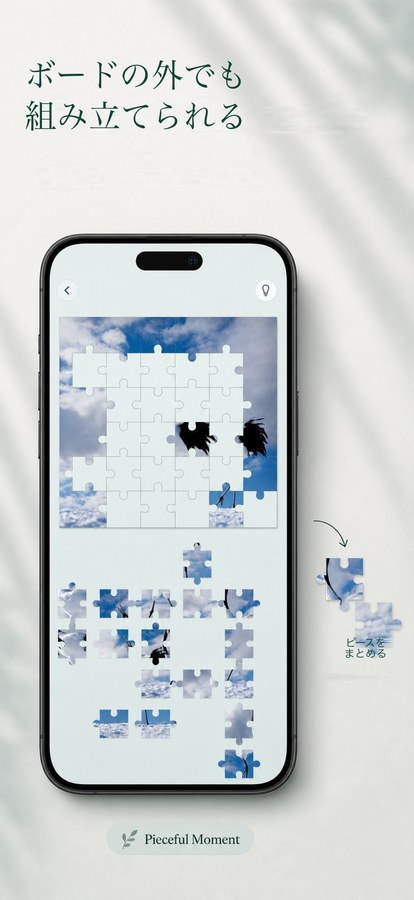
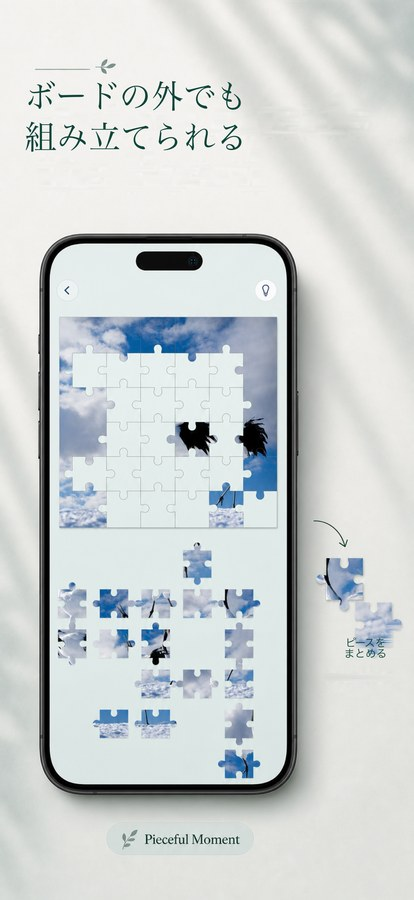
Preserve original treatment artwork in localizations

Changed region(s): [[0.2319, 0.0622, 0.5797, 0.1867], [0.058, 0.0622, 0.2029, 0.1867]]

diff --git a/assets/app.js b/assets/app.js
@@ -93,7 +93,9 @@
       b.classList.toggle("on", b.dataset.lang === lang);
     });
     document.querySelectorAll("[data-localized-shot]").forEach(function (img) {
-      img.src = "assets/img/shots/v8/" + lang + "/" + img.dataset.localizedShot + ".jpg?v=5";
+      var shotNumber = Number(img.dataset.localizedShot);
+      var version = lang !== "en" && shotNumber <= 3 ? 6 : 5;
+      img.src = "assets/img/shots/v8/" + lang + "/" + img.dataset.localizedShot + ".jpg?v=" + version;
     });
     document.querySelectorAll("[data-localized-ipad-shot]").forEach(function (img) {
       img.src = "assets/img/shots/v113-ipad/" + lang + "/" + img.dataset.localizedIpadShot + ".jpg?v=1";

diff --git a/index.html b/index.html
@@ -211,6 +211,6 @@
   </div>
 </footer>
 
-<script src="assets/app.js?v=12"></script>
+<script src="assets/app.js?v=13"></script>
 </body>
 </html>

diff --git a/scripts/test_render_v113_store_assets.py b/scripts/test_render_v113_store_assets.py
@@ -60,10 +60,21 @@ class V113StoreAssetTests(unittest.TestCase):
         )
 
     def test_all_localized_brand_marks_match_their_english_sources(self):
-        box = getattr(self.renderer, "BRAND_MARK_BOX", None)
-        self.assertIsNotNone(box, "renderer must define the locked brand-mark crop")
-        if box is None:
-            return
+        boxes = {
+            1: (35, 85, 390, 205),
+            2: (35, 150, 400, 250),
+            3: (35, 85, 390, 205),
+        }
+        self.assertEqual(
+            getattr(self.renderer, "BRAND_MARK_BOXES", None),
+            boxes,
+            "renderer must lock each source's complete line-and-leaf brand mark",
+        )
+        self.assertEqual(
+            getattr(self.renderer, "TREATMENT_TITLE_Y", None),
+            {1: 210, 2: 255, 3: 210},
+            "localized titles must begin below each locked brand mark",
+        )
         for locale in ("zh", "zht", "ja"):
             for index, source in enumerate(self.renderer.LOCKED_IPHONE_SOURCES, start=1):
                 output = (
@@ -72,11 +83,27 @@ class V113StoreAssetTests(unittest.TestCase):
                     / self.renderer.IPHONE_OUTPUT_FILES[index - 1]
                 )
                 with Image.open(source) as expected_image, Image.open(output) as actual_image:
-                    expected = expected_image.convert("RGB").crop(box)
-                    actual = actual_image.convert("RGB").crop(box)
+                    expected = expected_image.convert("RGB").crop(boxes[index])
+                    actual = actual_image.convert("RGB").crop(boxes[index])
                 self.assertEqual(actual.tobytes(), expected.tobytes(), (locale, index))
                 actual.close()
                 expected.close()
+
+    def test_localized_page_three_preserves_original_place_as_one_badge(self):
+        box = (60, 660, 650, 940)
+        source = self.renderer.LOCKED_IPHONE_SOURCES[2]
+        for locale in ("zh", "zht", "ja"):
+            output = (
+                self.output_root
+                / self.renderer.iphone_output_dir(locale)
+                / self.renderer.IPHONE_OUTPUT_FILES[2]
+            )
+            with Image.open(source) as expected_image, Image.open(output) as actual_image:
+                expected = expected_image.convert("RGB").crop(box)
+                actual = actual_image.convert("RGB").crop(box)
+            self.assertEqual(actual.tobytes(), expected.tobytes(), locale)
+            actual.close()
+            expected.close()
 
     def test_all_outputs_have_app_store_dimensions(self):
         iphone_dir = self.output_root / self.renderer.IPHONE_RELATIVE_OUTPUT

diff --git a/scripts/render_v113_store_assets.py b/scripts/render_v113_store_assets.py
@@ -44,7 +44,13 @@ APP_STORE_CONNECT_LOCALE_DIRS = {
     "zht": "zh-Hant",
     "ja": "ja",
 }
-BRAND_MARK_BOX = (40, 90, 300, 180)
+BRAND_MARK_BOXES = {
+    1: (35, 85, 390, 205),
+    2: (35, 150, 400, 250),
+    3: (35, 85, 390, 205),
+}
+TREATMENT_TITLE_Y = {1: 210, 2: 255, 3: 210}
+PAGE_THREE_BADGE_BOX = (60, 660, 650, 940)
 
 LOCKED_DIR = SOURCE_ROOT / "marketing-assets/app-store-candidates/pieceful-independent-6.9"
 LOCKED_IPHONE_SOURCES = [
@@ -409,7 +415,9 @@ def render_localized_treatment_poster(source_path, output, locale, index):
         return output
     with Image.open(source_path) as opened:
         source = opened.convert("RGB")
-    brand_mark = source.crop(BRAND_MARK_BOX)
+    brand_mark_box = BRAND_MARK_BOXES[index]
+    brand_mark = source.crop(brand_mark_box)
+    page_three_badge = source.crop(PAGE_THREE_BADGE_BOX) if index == 3 else None
     canvas = erase_flattened_green_copy(source, TREATMENT_ERASE_BOXES[index])
     source.close()
     draw = ImageDraw.Draw(canvas)
@@ -421,7 +429,7 @@ def render_localized_treatment_poster(source_path, output, locale, index):
         116 if locale != "ja" else 102,
         1140,
     )
-    y = 188
+    y = TREATMENT_TITLE_Y[index]
     for line in copy["title"]:
         draw.text((78, y), line, font=title_font, fill=GREEN)
         y += title_size + 28
@@ -443,13 +451,11 @@ def render_localized_treatment_poster(source_path, output, locale, index):
             align="center",
             spacing=4,
         )
-    elif index == 3:
-        center_x, center_y = 280, 760
-        draw_laurel(draw, center_x, center_y)
-        badge_font = locale_sans(locale, 43 if locale != "ja" else 35)
-        draw.text((center_x, center_y), copy["badge"], font=badge_font, fill=MUTED, anchor="mm")
-    canvas.paste(brand_mark, BRAND_MARK_BOX[:2])
+    canvas.paste(brand_mark, brand_mark_box[:2])
     brand_mark.close()
+    if page_three_badge is not None:
+        canvas.paste(page_three_badge, PAGE_THREE_BADGE_BOX[:2])
+        page_three_badge.close()
     output.parent.mkdir(parents=True, exist_ok=True)
     canvas.save(output, format="PNG", optimize=True)
     canvas.close()

diff --git a/scripts/test_website_brand.py b/scripts/test_website_brand.py
@@ -33,9 +33,11 @@ class WebsiteBrandTests(unittest.TestCase):
         index = (ROOT / "index.html").read_text()
         app_js = (ROOT / "assets" / "app.js").read_text()
         self.assertIn('data-localized-ipad-shot="06"', index)
-        self.assertIn('assets/app.js?v=12', index)
+        self.assertIn('assets/app.js?v=13', index)
         self.assertIn("assets/img/shots/v113-ipad/", app_js)
-        self.assertIn('.jpg?v=5', app_js)
+        self.assertIn('lang !== "en" && shotNumber <= 3 ? 6 : 5', app_js)
+        self.assertIn('01.jpg?v=5', index)
+        self.assertNotIn('01.jpg?v=6', index)
         for locale in ("en", "zh", "zht", "ja"):
             for number in ("01", "02", "03", "04", "05", "06"):
                 self.assertTrue((ROOT / f"assets/img/shots/v8/{locale}/{number}.jpg").is_file())
